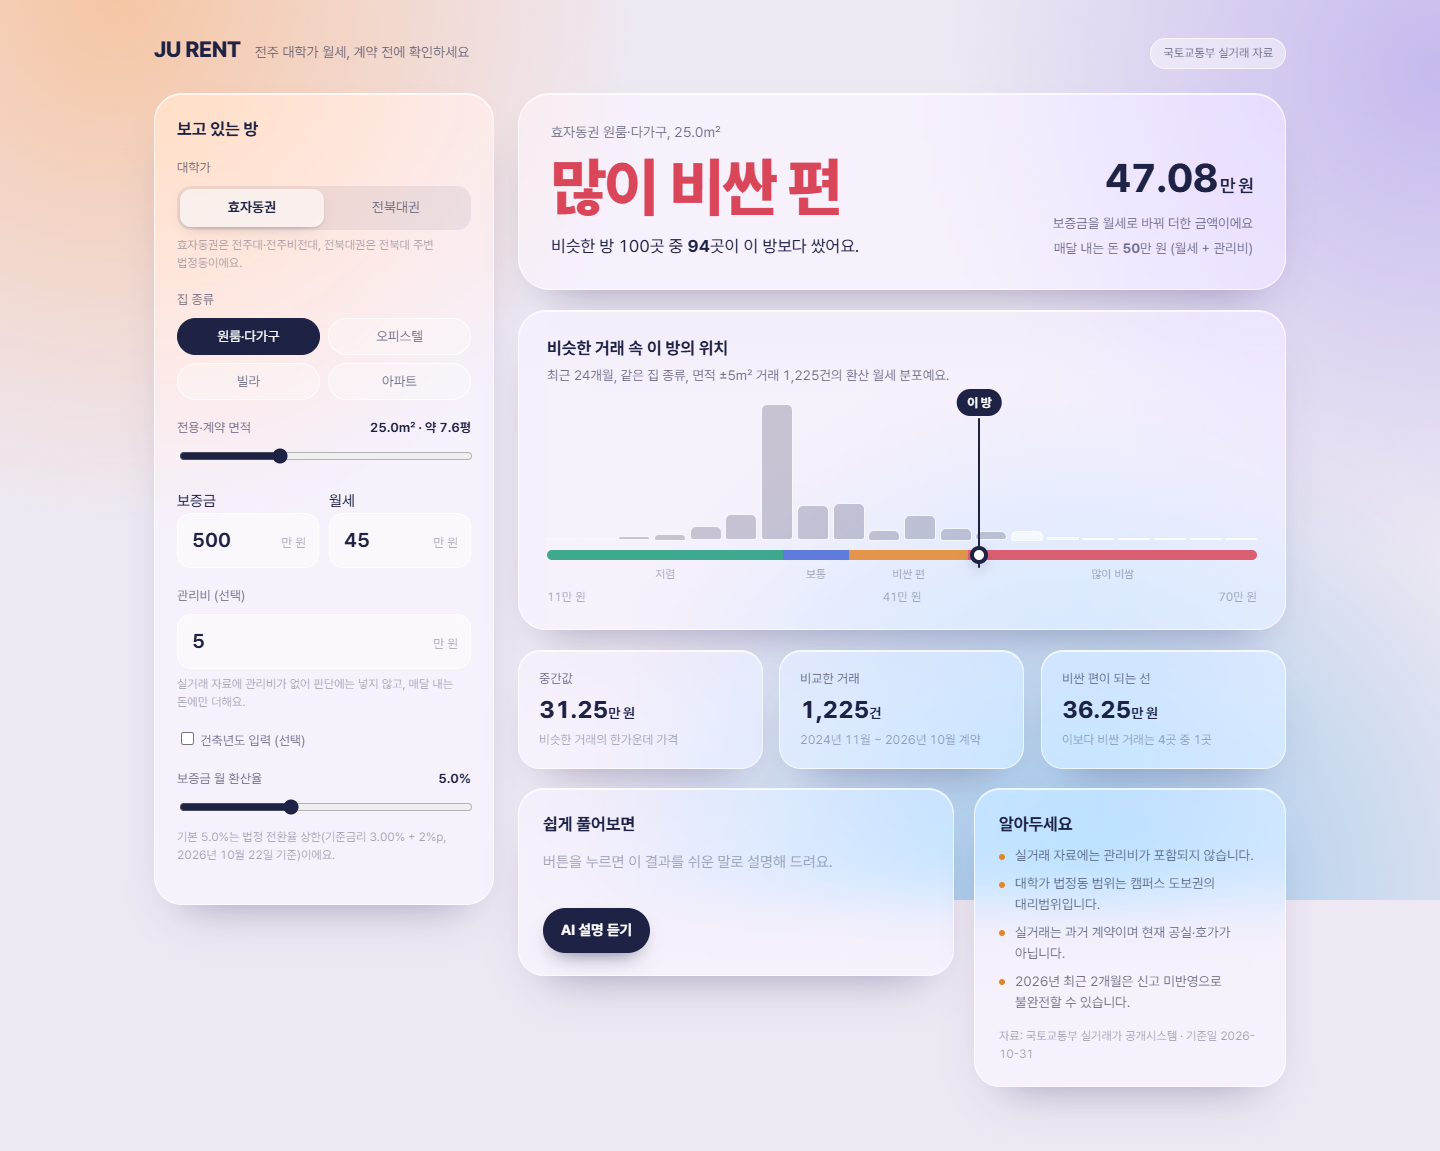
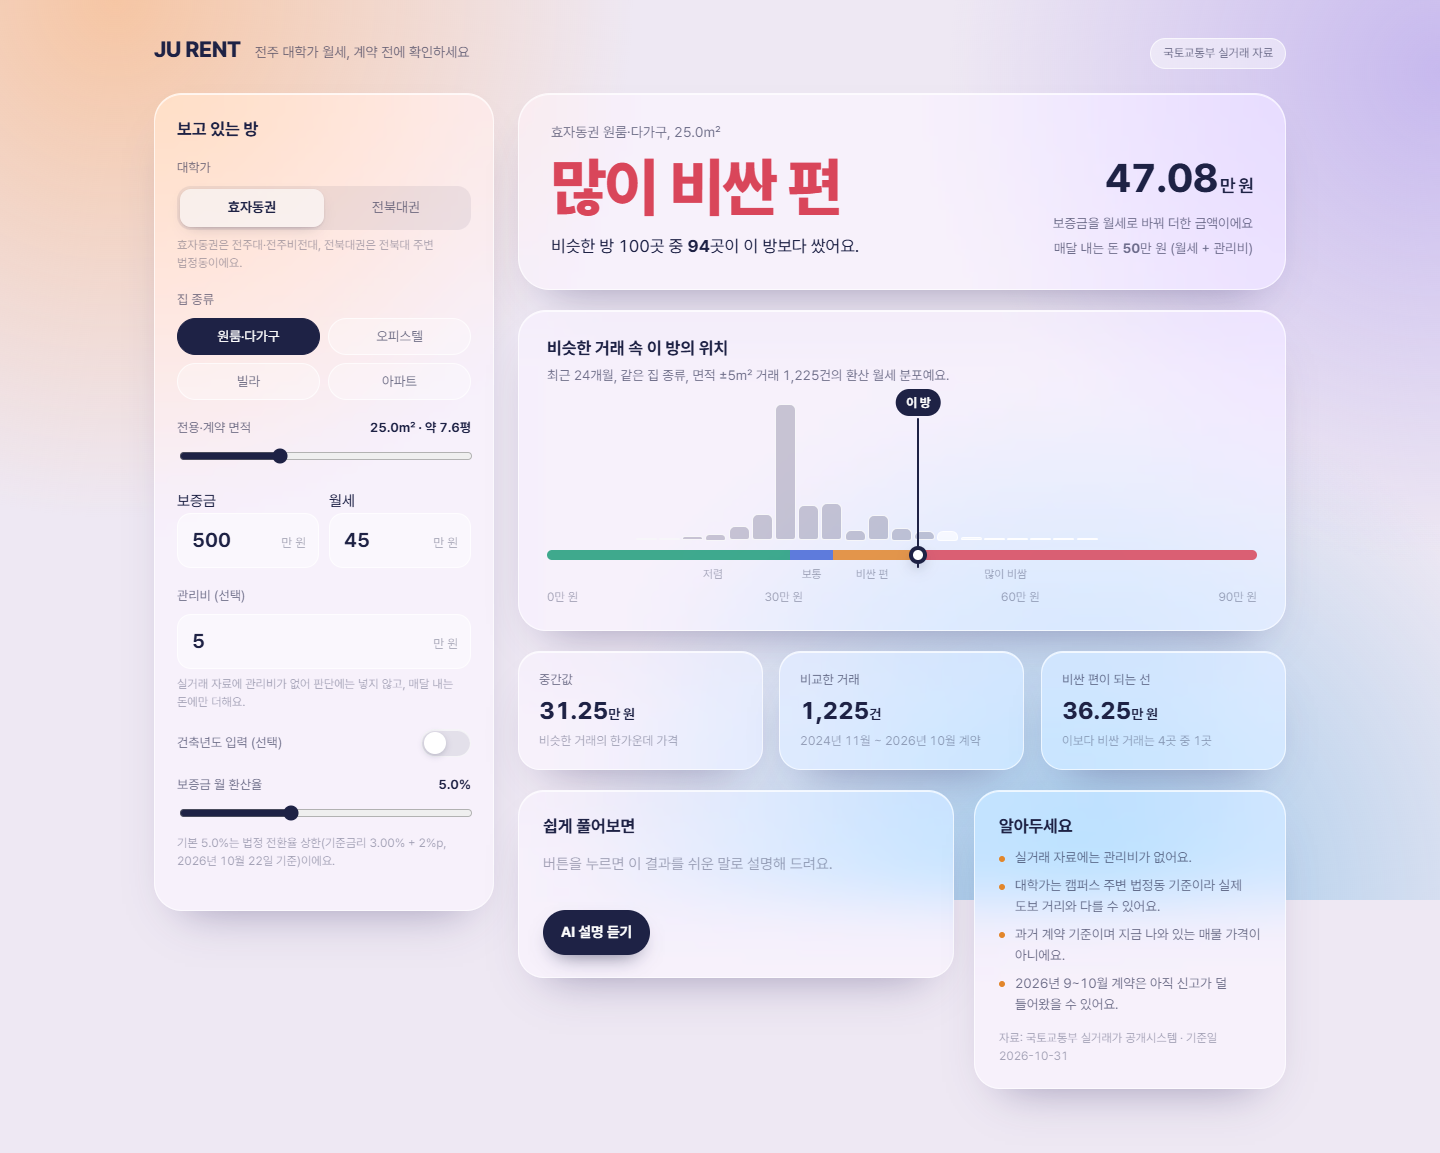
fix: refine contract distribution and accessibility

diff --git a/web/src/App.tsx b/web/src/App.tsx
@@ -1,6 +1,7 @@
 import { animate, motion, useMotionValue, useMotionValueEvent, useReducedMotion } from 'motion/react'
 import { useEffect, useMemo, useRef, useState } from 'react'
-import { comparisonSentence, monthPeriod, percentileSentence, rateHint, verdictText } from './copy'
+import { comparisonSentence, displayWarning, monthPeriod, percentileSentence, rateHint, verdictText } from './copy'
+import { axisTicks, pinPlacement, shouldDrawDistribution } from './distribution'
 import type { ContractInput, Explanation, Judgment, Meta } from './types'
 
 type FormState = {
@@ -92,7 +93,12 @@ function Distribution({ result }: { result: Judgment }) {
   const reduced = useReducedMotion()
   const low = bins[0]?.left ?? 0
   const high = bins.at(-1)?.right ?? low + 1
-  const position = (value: number) => Math.min(100, Math.max(0, (value - low) / (high - low) * 100))
+  const draw = shouldDrawDistribution(result.label, bins.length)
+  const ticks = axisTicks(low, high)
+  const axisLow = ticks[0]
+  const axisHigh = ticks.at(-1)!
+  const position = (value: number) => Math.min(100, Math.max(0, (value - axisLow) / (axisHigh - axisLow) * 100))
+  const pin = pinPlacement(result.converted_monthly_10k_krw, low, high, axisLow, axisHigh)
   const maxCount = Math.max(1, ...bins.map(bin => bin.count))
   const regions = q ? [
     { width: position(q.p25), color: 'var(--cheap)', label: '저렴' },
@@ -107,12 +113,13 @@ function Distribution({ result }: { result: Judgment }) {
 
   return <section className="dist glass reveal d3" aria-label="비슷한 거래 분포">
     <h3>비슷한 거래 속 이 방의 위치</h3>
-    <p className="sub">{comparisonSentence(result)}</p>
-    {bins.length ? <>
+    <p className="sub">{draw ? comparisonSentence(result) : `비슷한 거래 ${format(result.n)}건을 찾았어요.`}</p>
+    {draw ? <>
       <div className="chart" role="img" aria-label={`환산 월세 분포, 이 방 ${format(result.converted_monthly_10k_krw, 2)}만 원`}>
         <div className="bars">
           {bins.map((bin, index) => <motion.i key={index}
             className={bin.left < result.converted_monthly_10k_krw ? 'on' : ''}
+            style={{ left: `${position(bin.left)}%`, width: `max(2px, calc(${position(bin.right) - position(bin.left)}% - 2px))` }}
             initial={false}
             animate={{ height: `${bin.count / maxCount * 100}%` }}
             transition={{ duration: reduced ? 0 : 0.45, ease: [0.2, 0.8, 0.2, 1] }} />)}
@@ -121,14 +128,14 @@ function Distribution({ result }: { result: Judgment }) {
           <span key={index} style={{ width: `${zone.width}%`, background: zone.color, opacity: 0.85 }} />)}</div>
           <div className="zones">{regions.map((zone, index) =>
             <em key={zone.label} style={{ left: `${centers[index]}%` }}>{zone.label}</em>)}</div></>}
-        <motion.div className="pin" initial={false}
-          animate={{ left: `${position(result.converted_monthly_10k_krw)}%` }}
+        <motion.div className={`pin ${pin.edge ? `pin-${pin.edge}` : ''}`} initial={false}
+          animate={{ left: `${pin.position}%` }}
           transition={reduced ? { duration: 0 } : { type: 'spring', stiffness: 260, damping: 26 }}>
-          <div className="stem" /><div className="dot" /><div className="tag">이 방</div>
+          <div className="stem" /><div className="dot" /><div className="tag">{pin.tag}</div>
         </motion.div>
       </div>
-      <div className="axis"><span>{format(low)}만 원</span><span>{format((low + high) / 2)}만 원</span><span>{format(high)}만 원</span></div>
-    </> : <p className="hint">표시할 거래가 없어요. 면적이나 집 종류를 바꿔 보세요.</p>}
+      <div className="axis">{ticks.map(tick => <span key={tick} style={{ left: `${position(tick)}%` }}>{format(tick)}만 원</span>)}</div>
+    </> : <p className="dist-empty">비슷한 거래가 적어 분포를 그리지 않았어요</p>}
   </section>
 }
 
@@ -279,8 +286,11 @@ export default function App() {
         {errors.fee && <p className="field-error" role="alert">{errors.fee}</p>}
         <div className="hint">실거래 자료에 관리비가 없어 판단에는 넣지 않고, 매달 내는 돈에만 더해요.</div>
       </div>
-      <div className="field"><label className="year-toggle"><input type="checkbox" checked={form.useYear}
-        onChange={event => update({ useYear: event.target.checked, construction_year: event.target.checked ? String(Number(meta?.data_as_of.slice(0, 4)) - 5) : '' })} /> 건축년도 입력 (선택)</label>
+      <div className="field"><label className="year-toggle" htmlFor="year-enabled"><span>건축년도 입력 (선택)</span>
+        <span className="switch"><input id="year-enabled" type="checkbox" checked={form.useYear}
+          onChange={event => update({ useYear: event.target.checked, construction_year: event.target.checked ? String(Number(meta?.data_as_of.slice(0, 4)) - 5) : '' })} />
+          <span className="switch-track" aria-hidden="true"><span className="switch-knob" /></span>
+        </span></label>
         {form.useYear && <><div className="num"><input id="year" aria-label="건축년도" type="number" inputMode="numeric"
           value={form.construction_year} onChange={event => update({ construction_year: event.target.value })} /></div>
           {(errors.construction_year || serverError?.field === 'construction_year') &&
@@ -333,8 +343,8 @@ export default function App() {
               {explainLoading ? '설명 준비 중…' : 'AI 설명 듣기'}</button>
           </div>
           <div className="card glass reveal d4"><h3>알아두세요</h3>
-            <ul className="notes">{result.warnings.map(warning => <li key={warning}>{warning}</li>)}</ul>
-            <div className="source">자료: 국토교통부 실거래가 공개시스템 · 기준일 {result.data_as_of}</div>
+            <ul className="notes">{result.warnings.map(warning => <li key={warning}>{displayWarning(warning)}</li>)}</ul>
+            <div className="source">자료: 국토교통부 실거래가 공개시스템 · 기준일 <span className="source-date">{result.data_as_of}</span></div>
           </div>
         </section>
       </> : <section className="hero glass reveal d2" id="result" aria-live="polite">

diff --git a/web/src/style.css b/web/src/style.css
@@ -196,8 +196,32 @@ button:focus-visible, input:focus-visible { outline: 2px solid var(--normal); ou
 .panel-progress { position: absolute; top: 0; left: 22px; right: 22px; height: 3px; border-radius: 999px; background: var(--normal); opacity: .75; }
 .field-error { margin: 6px 0 0; color: var(--very); font-size: 12px; line-height: 1.45; }
 .field > label.range-head { display: flex; }
-.year-toggle { display: flex; align-items: center; gap: 8px; color: var(--ink-soft); font-size: 13px; cursor: pointer; margin-bottom: 8px; }
-.year-toggle input { accent-color: var(--ink); }
+.bars { display: block; }
+.bars i { position: absolute; bottom: 0; flex: none; }
+.axis { position: relative; display: block; height: 20px; }
+.axis span { position: absolute; transform: translateX(-50%); white-space: nowrap; }
+.axis span:first-child { transform: none; }
+.axis span:last-child { transform: translateX(-100%); }
+.pin-low .tag { transform: none; }
+.pin-high .tag { transform: translateX(-100%); }
+.dist-empty { min-height: 74px; display: flex; align-items: center; justify-content: center;
+  margin: 0; border-radius: 18px; background: rgba(255,255,255,.24);
+  color: var(--ink-soft); font-size: 14px; text-align: center; padding: 16px; }
+.source-date { white-space: nowrap; }
+.field > label.year-toggle { display: flex; align-items: center; justify-content: space-between; gap: 8px;
+  color: var(--ink-soft); font-size: 13px; cursor: pointer; margin-bottom: 8px; }
+.switch { position: relative; display: inline-flex; width: 50px; height: 28px; flex: none; }
+.switch input { position: absolute; inset: 0; width: 100%; height: 100%; margin: 0;
+  opacity: 0; cursor: pointer; z-index: 2; }
+.switch-track { display: block; width: 100%; border-radius: 999px; border: 1px solid var(--edge);
+  background: rgba(30,34,69,.10); backdrop-filter: blur(28px) saturate(170%);
+  box-shadow: 0 1px 0 rgba(255,255,255,.65) inset; transition: background .25s var(--ease); }
+.switch-knob { display: block; width: 22px; height: 22px; margin: 2px; border-radius: 50%;
+  background: #fff; box-shadow: 0 2px 7px rgba(30,34,69,.24);
+  transition: transform .35s var(--spring); }
+.switch input:checked + .switch-track { background: var(--ink); }
+.switch input:checked + .switch-track .switch-knob { transform: translateX(22px); }
+.switch input:focus-visible + .switch-track { outline: 2px solid var(--normal); outline-offset: 3px; }
 .age-card { border-radius: 26px; padding: 18px 24px; }
 .age-card h3 { margin: 0 0 4px; font-size: 17px; }
 .age-card p { margin: 0; font-size: 14px; color: var(--ink-soft); }

diff --git a/web/src/distribution.test.ts b/web/src/distribution.test.ts
@@ -1,0 +1,30 @@
+import { describe, expect, it } from 'vitest'
+import { axisTicks, pinPlacement, shouldDrawDistribution } from './distribution'
+
+describe('distribution presentation', () => {
+  it('hides all plotted elements when judgment is on hold', () => {
+    expect(shouldDrawDistribution('표본 부족', 20)).toBe(false)
+    expect(shouldDrawDistribution('보통', 20)).toBe(true)
+  })
+
+  it('pins values outside observed transactions to the appropriate edge', () => {
+    expect(pinPlacement(37, 46, 47, 30, 50))
+      .toEqual({ position: 0, tag: '비교한 거래보다 싸요', edge: 'low' })
+    expect(pinPlacement(75, 11, 70, 0, 90))
+      .toEqual({ position: 100, tag: '비교한 거래보다 비싸요', edge: 'high' })
+    expect(pinPlacement(46.5, 46, 47, 30, 50))
+      .toEqual({ position: 82.5, tag: '이 방', edge: null })
+  })
+
+  it('makes three or four unique 10-man-won axis ticks even for narrow ranges', () => {
+    for (const [low, high] of [[46, 47], [11, 70], [0, 1], [95, 105]]) {
+      const ticks = axisTicks(low, high)
+      expect(ticks.length).toBeGreaterThanOrEqual(3)
+      expect(ticks.length).toBeLessThanOrEqual(4)
+      expect(new Set(ticks).size).toBe(ticks.length)
+      expect(ticks.every(tick => Number.isInteger(tick) && tick % 10 === 0)).toBe(true)
+      expect(ticks[0]).toBeLessThanOrEqual(low)
+      expect(ticks.at(-1)).toBeGreaterThanOrEqual(high)
+    }
+  })
+})

diff --git a/web/src/distribution.ts b/web/src/distribution.ts
@@ -1,0 +1,31 @@
+export function shouldDrawDistribution(label: string, binCount: number): boolean {
+  return label !== '표본 부족' && binCount > 0
+}
+
+/** Three or four distinct tick values, each an integer multiple of 10만 원. */
+export function axisTicks(low: number, high: number): number[] {
+  const floor = Math.max(0, low)
+  const ceiling = Math.max(floor + 1, high)
+  for (let step = 10; ; step += 10) {
+    let start = Math.floor(floor / step) * step
+    let end = Math.ceil(ceiling / step) * step
+    if ((end - start) / step + 1 > 4) continue
+    if (end - start < 2 * step) {
+      if (start >= step) start -= step
+      else end += step
+    }
+    const count = Math.round((end - start) / step) + 1
+    return Array.from({ length: count }, (_, index) => start + index * step)
+  }
+}
+
+export function pinPlacement(
+  value: number, observedLow: number, observedHigh: number, axisLow: number, axisHigh: number,
+): { position: number; tag: string; edge: 'low' | 'high' | null } {
+  if (value < observedLow) return { position: 0, tag: '비교한 거래보다 싸요', edge: 'low' }
+  if (value > observedHigh) return { position: 100, tag: '비교한 거래보다 비싸요', edge: 'high' }
+  return {
+    position: Math.min(100, Math.max(0, (value - axisLow) / (axisHigh - axisLow) * 100)),
+    tag: '이 방', edge: null,
+  }
+}

diff --git a/web/src/copy.ts b/web/src/copy.ts
@@ -1,5 +1,16 @@
 import type { Judgment } from './types'
 
+const WARNING_COPY: Record<string, string> = {
+  '실거래 자료에는 관리비가 포함되지 않습니다.': '실거래 자료에는 관리비가 없어요.',
+  '대학가 법정동 범위는 캠퍼스 도보권의 대리범위입니다.': '대학가는 캠퍼스 주변 법정동 기준이라 실제 도보 거리와 다를 수 있어요.',
+  '실거래는 과거 계약이며 현재 공실·호가가 아닙니다.': '과거 계약 기준이며 지금 나와 있는 매물 가격이 아니에요.',
+  '2026년 최근 2개월은 신고 미반영으로 불완전할 수 있습니다.': '2026년 9~10월 계약은 아직 신고가 덜 들어왔을 수 있어요.',
+}
+
+export function displayWarning(warning: string): string {
+  return WARNING_COPY[warning] ?? warning
+}
+
 export function verdictText(result: Pick<Judgment, 'label'>): string {
   return result.label === '표본 부족' ? '판단 보류' : result.label
 }

diff --git a/web/src/copy.test.ts b/web/src/copy.test.ts
@@ -1,5 +1,5 @@
 import { describe, expect, it } from 'vitest'
-import { comparisonSentence, percentileSentence, verdictText } from './copy'
+import { comparisonSentence, displayWarning, percentileSentence, verdictText } from './copy'
 
 describe('student-facing result text', () => {
   it('uses the response percentile for the 100 rooms sentence', () => {
@@ -18,5 +18,10 @@ describe('student-facing result text', () => {
     expect(verdictText({ label: '표본 부족' })).toBe('판단 보류')
     expect(percentileSentence({ label: '표본 부족', percentile: null, n: 8 }))
       .toContain('비슷한 거래가 8건뿐이라 판단하기 어려워요')
+  })
+
+  it('uses mockup warning wording only for known engine messages', () => {
+    expect(displayWarning('실거래 자료에는 관리비가 포함되지 않습니다.')).toBe('실거래 자료에는 관리비가 없어요.')
+    expect(displayWarning('새 경고')).toBe('새 경고')
   })
 })
